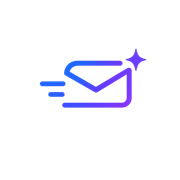
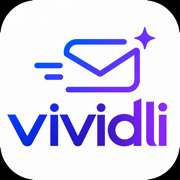
new stuff

diff --git a/index.html b/index.html
@@ -5,8 +5,8 @@
   <meta name="viewport" content="width=device-width, initial-scale=1.0">
   <meta name="description" content="Vividli sends automated AI-powered performance reports before invoices land, helping agencies prove value and reduce churn.">
   <title>Vividli | Value Before The Bill</title>
-  <link rel="icon" type="image/png" sizes="64x64" href="favicon.png">
-  <link rel="apple-touch-icon" sizes="180x180" href="apple-touch-icon.png">
+  <link rel="icon" type="image/png" sizes="64x64" href="favicon.png?v=2">
+  <link rel="apple-touch-icon" sizes="180x180" href="apple-touch-icon.png?v=2">
   <script src="https://cdn.tailwindcss.com"></script>
   <link rel="preconnect" href="https://cdnjs.cloudflare.com">
   <link rel="stylesheet" href="https://cdnjs.cloudflare.com/ajax/libs/font-awesome/6.5.1/css/all.min.css">
@@ -92,6 +92,16 @@
       background: rgba(7, 8, 13, 0.76);
       backdrop-filter: blur(18px);
       -webkit-backdrop-filter: blur(18px);
+    }
+
+    .site-logo {
+      display: block;
+      height: 2.15rem;
+      width: auto;
+      border-radius: 8px;
+      background: rgba(255, 255, 255, 0.96);
+      padding: 0.32rem 0.42rem;
+      box-shadow: 0 12px 34px rgba(41, 121, 255, 0.12);
     }
 
     .nav-link {
@@ -559,9 +569,12 @@
     }
 
     .report-document-logo {
-      height: 1.7rem;
+      height: 1.34rem;
       width: auto;
-      filter: brightness(0) invert(1);
+      border-radius: 6px;
+      background: white;
+      padding: 0.24rem 0.32rem;
+      box-shadow: 0 8px 22px rgba(0, 0, 0, 0.12);
     }
 
     .report-document-date {
@@ -1298,7 +1311,7 @@
   <nav class="site-nav" aria-label="Primary navigation">
     <div class="mx-auto flex max-w-7xl items-center justify-between px-5 py-4 lg:px-8">
       <a href="#top" class="flex items-center gap-3" aria-label="Vividli home">
-        <img src="logo.png" alt="Vividli" class="h-9 w-auto">
+        <img src="logo.png" alt="Vividli" class="site-logo">
       </a>
 
       <div class="hidden items-center gap-1 rounded-[8px] border border-white/10 bg-white/[0.04] p-1 text-sm font-semibold lg:flex">
@@ -1992,7 +2005,7 @@
       <div class="email-float">
         <div class="bg-[#10141f] px-8 py-8 text-white">
           <div class="flex items-start justify-between gap-6">
-            <img src="logo.png" alt="Vividli" class="h-8 w-auto brightness-0 invert">
+            <img src="logo.png" alt="Vividli" class="report-document-logo">
             <div class="text-right text-sm">
               <div>21 Mar - 19 Apr 2026</div>
               <div class="text-white/65">Monthly Performance Report</div>
